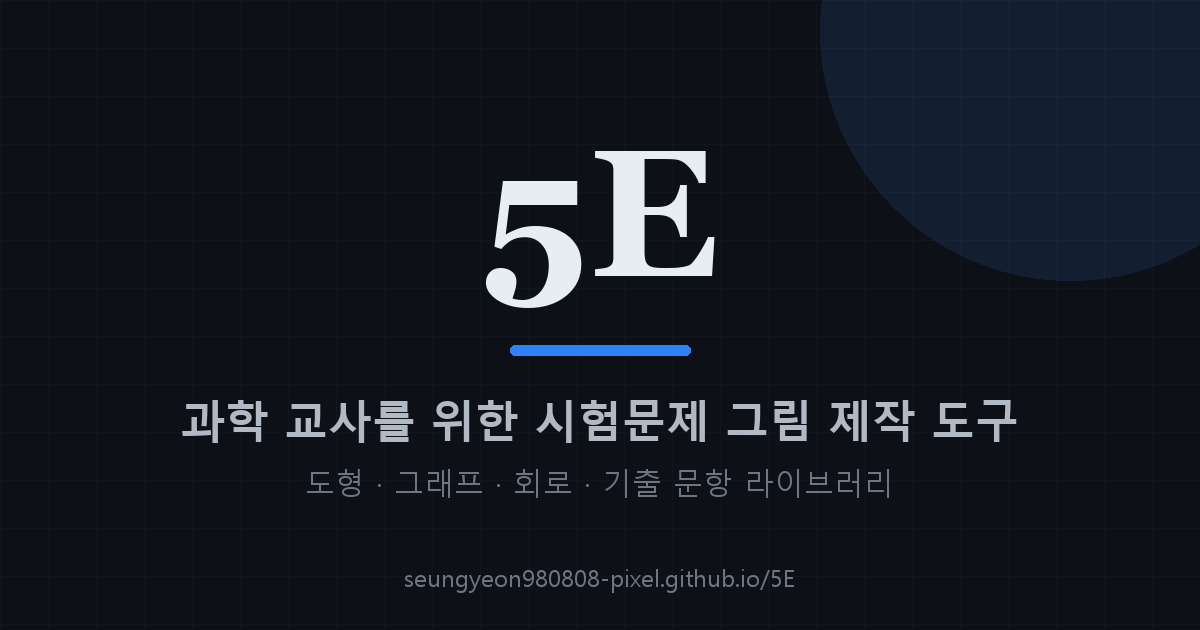
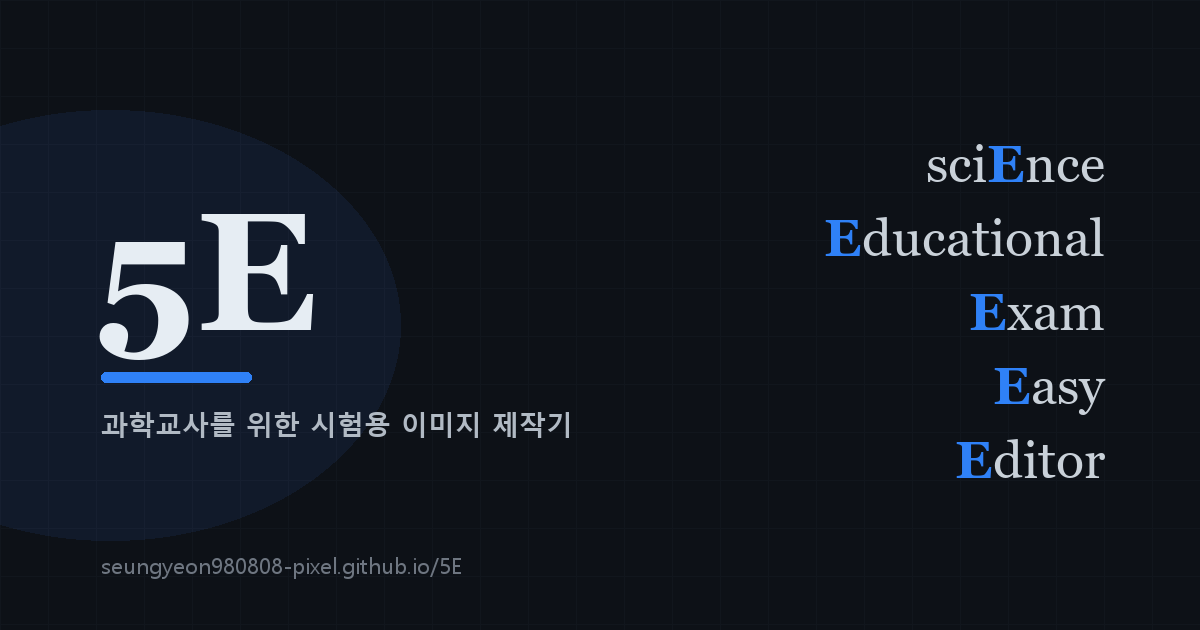
polish: 미리보기 문구 갱신 + 썸네일 개편(좌 5E / 우 아크로님 E강조)
- 설명 문구: '공통 도구로 다양한 이미지를 생성합니다. 라이브러리에서 기출문항을 불러와 편집합니다.'
- 제목: '5E · 과학교사를 위한 시험용 이미지 제작기'
- og-image: 5E를 왼쪽으로, 오른쪽 끝 정렬로 sciEnce/Educational/Exam/Easy/Editor(각 E 강조)

diff --git a/index.html b/index.html
@@ -3,8 +3,8 @@
 <head>
   <meta charset="UTF-8" />
   <meta name="viewport" content="width=device-width, initial-scale=1.0" />
-  <title>5E · 과학 시험문제 그림 제작 도구</title>
-  <meta name="description" content="과학 교사를 위한 시험문제 그림 제작 도구. 도형·그래프·회로·좌표평면을 그리고, 기출 문항 라이브러리에서 검색해 삽입하세요. 브라우저에서 바로 쓰는 무료 웹 도구." />
+  <title>5E · 과학교사를 위한 시험용 이미지 제작기</title>
+  <meta name="description" content="공통 도구로 다양한 이미지를 생성합니다. 라이브러리에서 기출문항을 불러와 편집합니다." />
 
   <!-- 파비콘 -->
   <link rel="icon" type="image/png" href="assets/favicon.png" />
@@ -13,8 +13,8 @@
   <!-- ===== 링크 공유 미리보기 (Open Graph / 카카오·페북 등) ===== -->
   <meta property="og:type" content="website" />
   <meta property="og:site_name" content="5E" />
-  <meta property="og:title" content="5E · 과학 시험문제 그림 제작 도구" />
-  <meta property="og:description" content="도형·그래프·회로·좌표평면을 그리고, 기출 문항 라이브러리에서 검색해 삽입하세요. 브라우저에서 바로 쓰는 무료 웹 도구." />
+  <meta property="og:title" content="5E · 과학교사를 위한 시험용 이미지 제작기" />
+  <meta property="og:description" content="공통 도구로 다양한 이미지를 생성합니다. 라이브러리에서 기출문항을 불러와 편집합니다." />
   <meta property="og:url" content="https://seungyeon980808-pixel.github.io/5E/" />
   <meta property="og:image" content="https://seungyeon980808-pixel.github.io/5E/assets/og-image.png" />
   <meta property="og:image:width" content="1200" />
@@ -22,8 +22,8 @@
   <meta property="og:locale" content="ko_KR" />
   <!-- 트위터 카드 -->
   <meta name="twitter:card" content="summary_large_image" />
-  <meta name="twitter:title" content="5E · 과학 시험문제 그림 제작 도구" />
-  <meta name="twitter:description" content="도형·그래프·회로·좌표평면을 그리고, 기출 문항 라이브러리에서 검색해 삽입하세요." />
+  <meta name="twitter:title" content="5E · 과학교사를 위한 시험용 이미지 제작기" />
+  <meta name="twitter:description" content="공통 도구로 다양한 이미지를 생성합니다. 라이브러리에서 기출문항을 불러와 편집합니다." />
   <meta name="twitter:image" content="https://seungyeon980808-pixel.github.io/5E/assets/og-image.png" />
 
   <!-- ===== FONTS (IBM Plex Sans KR / Mono) ===== -->